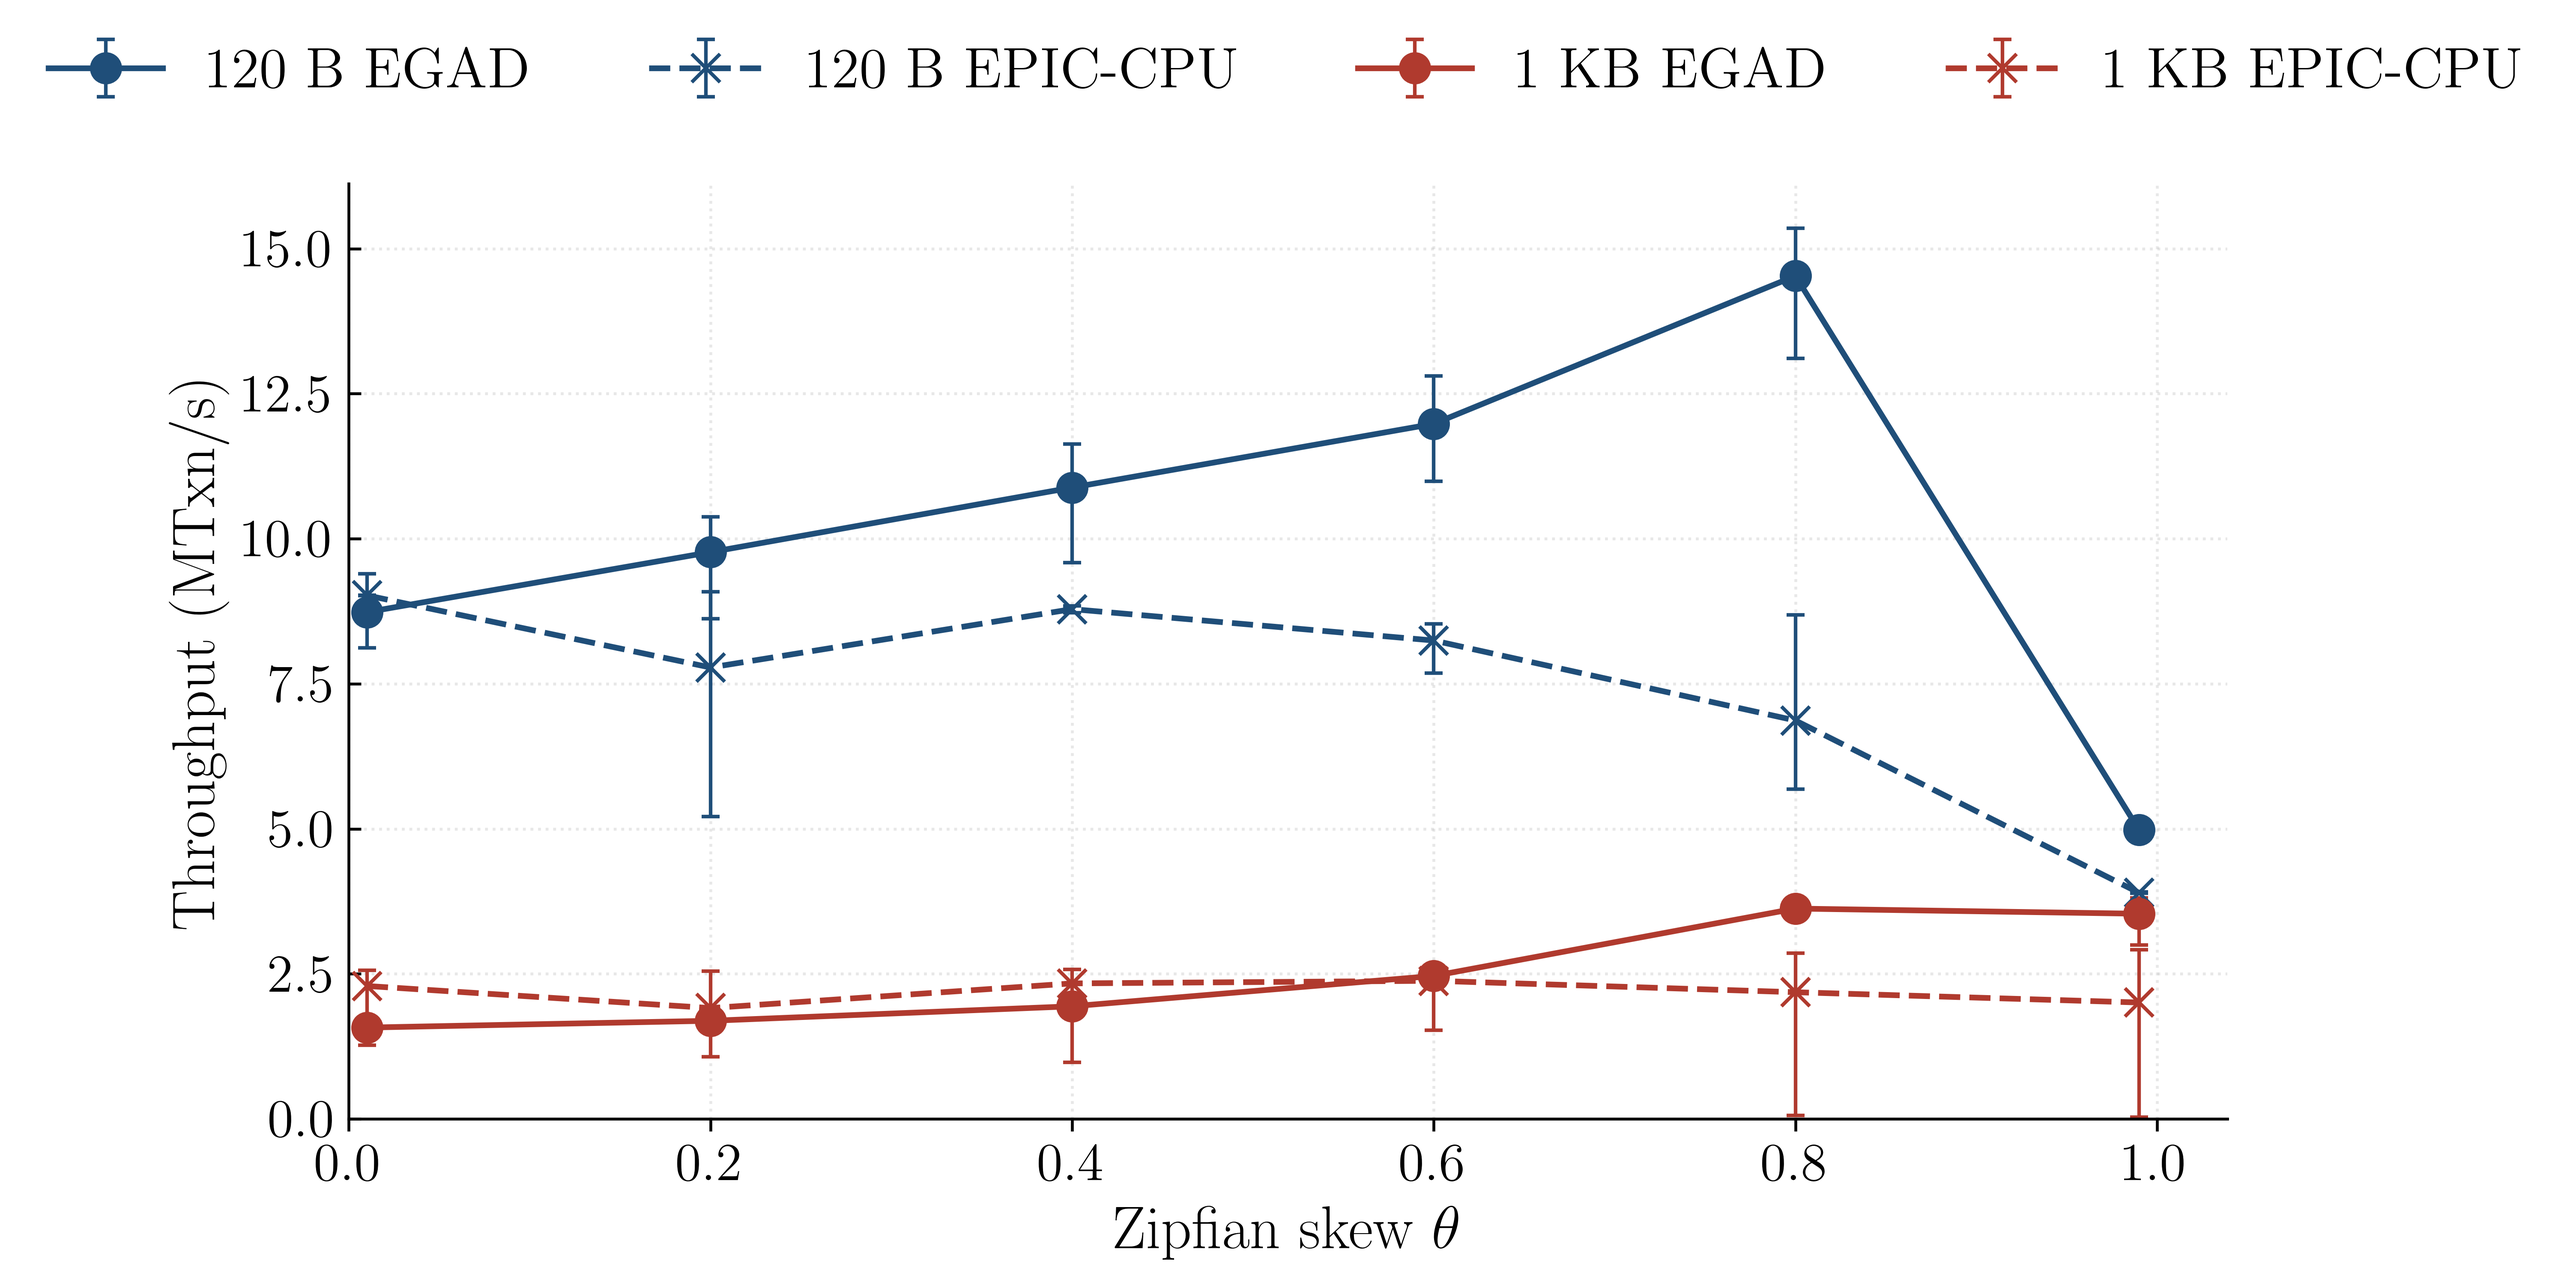
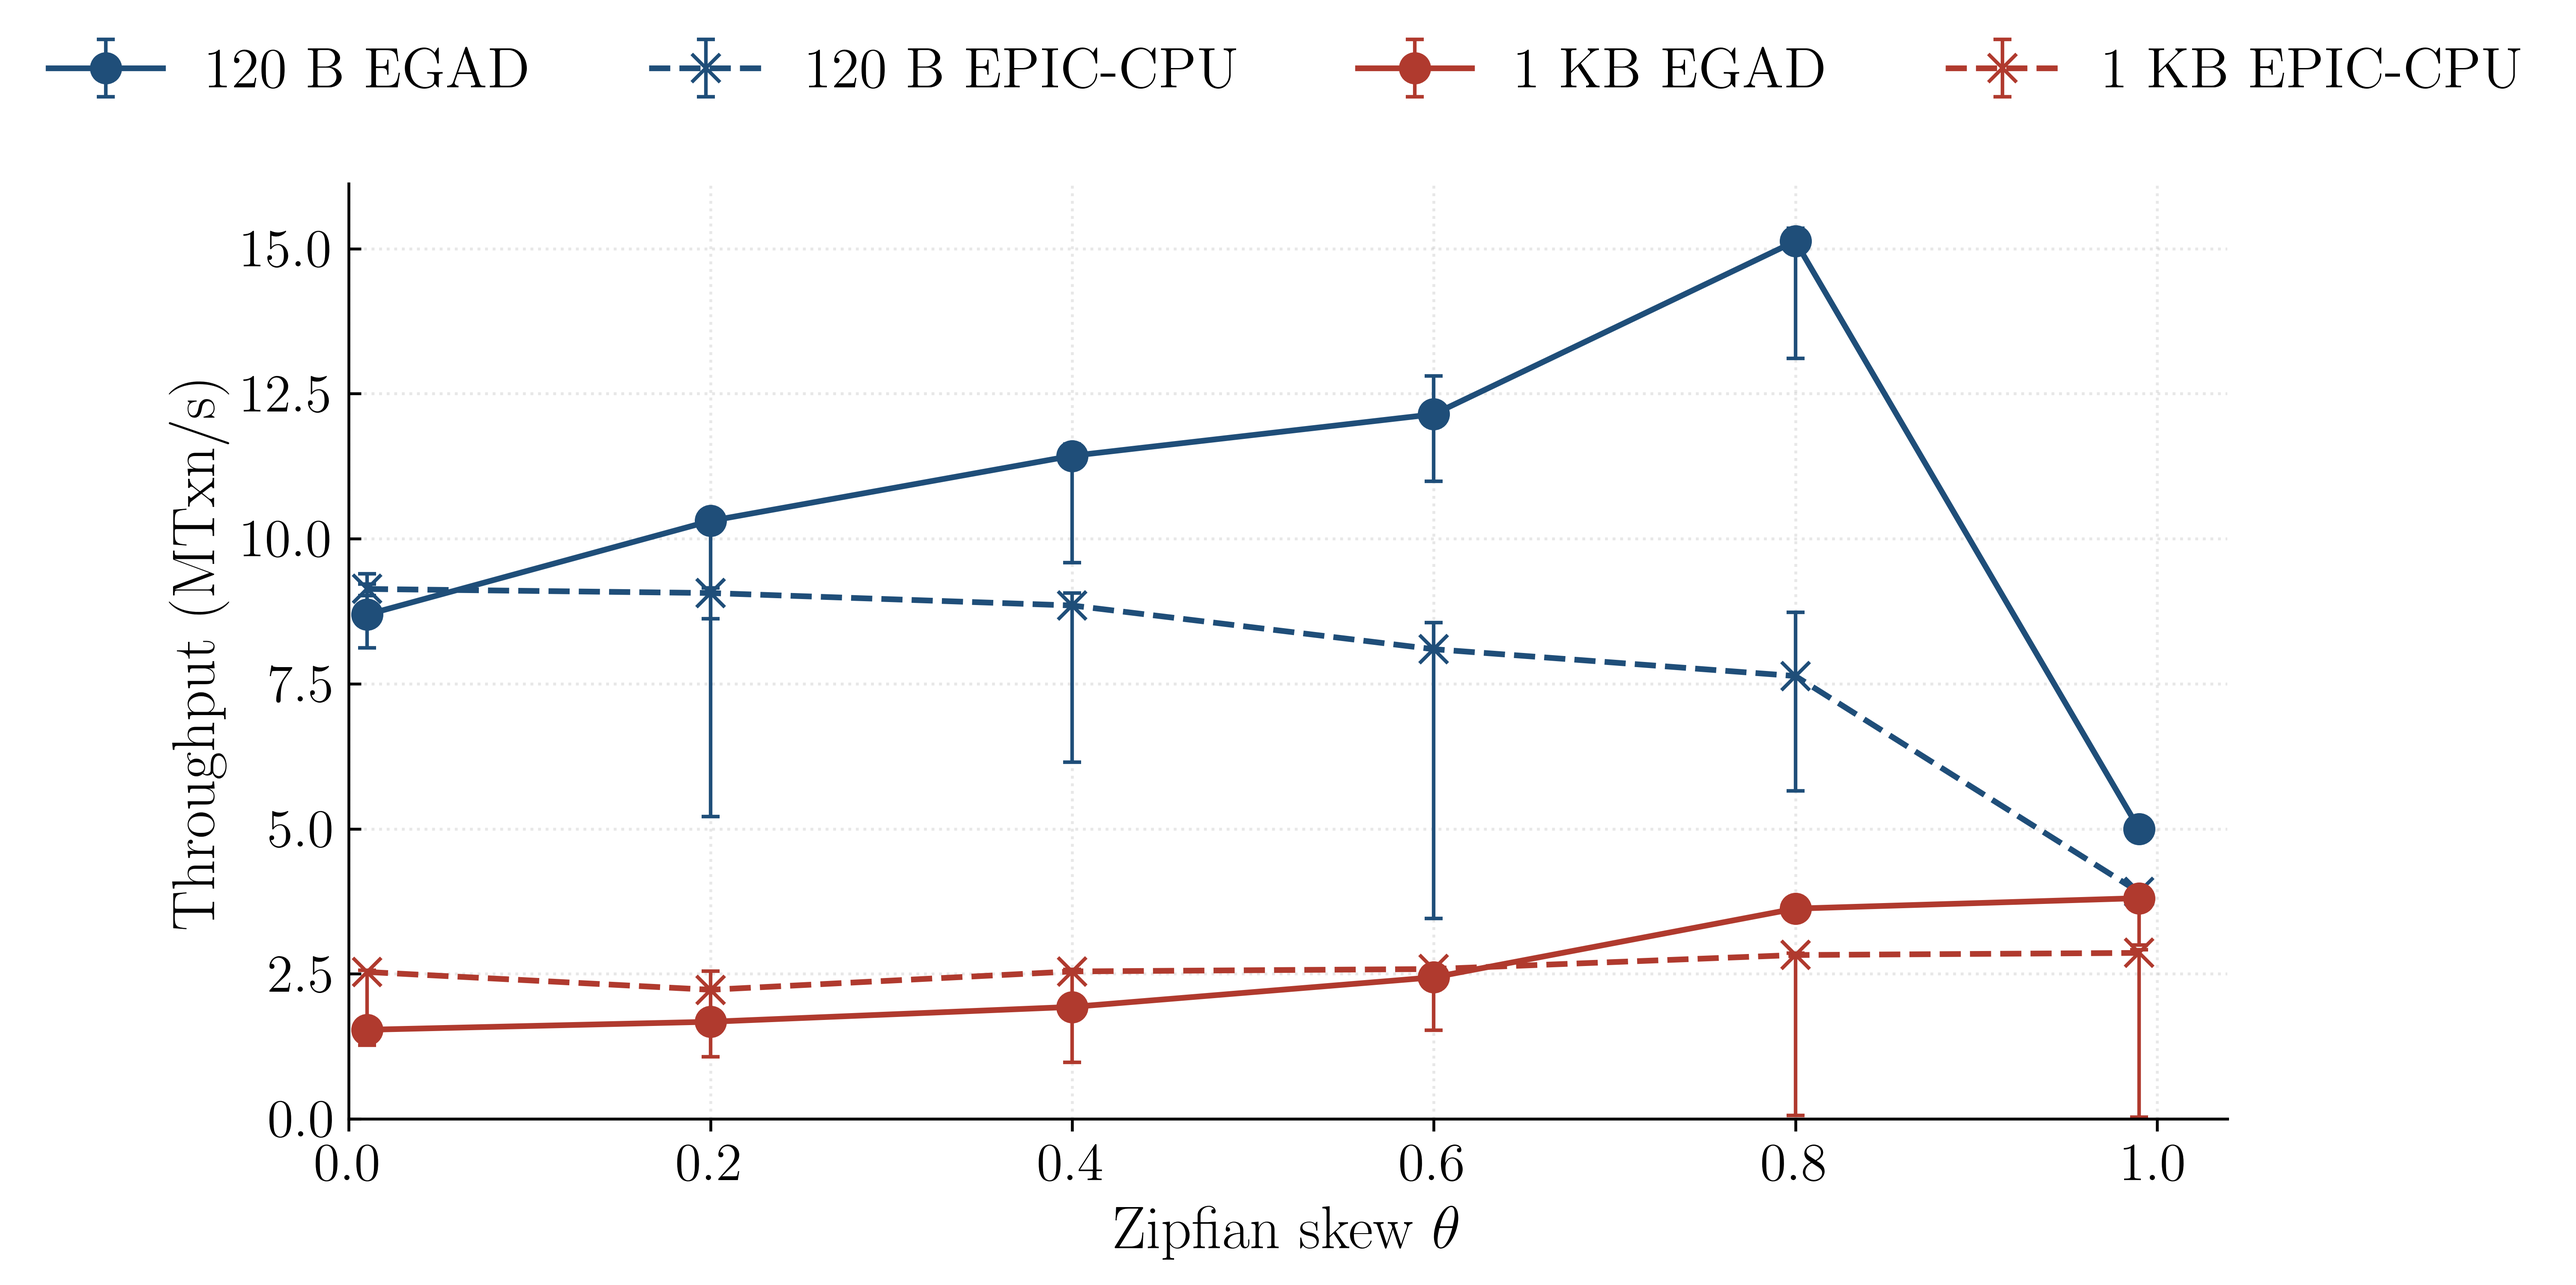
EGAD_plotting: record-size centers are ten-rep medians -- 120B cpu cells topped up on the quiet box; medians resist upstream's slow mode where the old three-rep means sat between modes

diff --git a/EGAD_plotting/plots/03_record_size.py b/EGAD_plotting/plots/03_record_size.py
@@ -134,11 +134,13 @@ def render(cells: Dict[Tuple[str, str, float], List[float]]) -> None:
     ]
 
     for size, mode, color, ls, marker, label in series_cfg:
-        pts = []  # (skew, mean, min, max) -- center stays the mean
+        # Median center: the EPIC-CPU cells carry mode structure across their
+        # ten reps (upstream's slow mode), and a mean would sit between modes.
+        pts = []  # (skew, median, min, max)
         for s in skews:
             vs = cells.get((size, mode, s), [])
             if vs:
-                pts.append((s, statistics.mean(vs), min(vs), max(vs)))
+                pts.append((s, statistics.median(vs), min(vs), max(vs)))
         if not pts:
             continue
         xs_plot = [p[0] for p in pts]
@@ -165,9 +167,9 @@ def render(cells: Dict[Tuple[str, str, float], List[float]]) -> None:
     csv_path = OUT_BASE + ".csv"
     with open(csv_path, "w", newline="") as f:
         w = csv.writer(f)
-        w.writerow(["size", "mode", "skew", "mean_mtxn_s", "min_mtxn_s", "max_mtxn_s", "n_reps"])
+        w.writerow(["size", "mode", "skew", "median_mtxn_s", "min_mtxn_s", "max_mtxn_s", "n_reps"])
         for (size, mode, skew), vs in sorted(cells.items()):
-            w.writerow([size, mode, skew, statistics.mean(vs),
+            w.writerow([size, mode, skew, statistics.median(vs),
                         round(min(vs), 3), round(max(vs), 3), len(vs)])
     print(f"saved {csv_path}")
 

diff --git a/EGAD_plotting/PLOTS.md b/EGAD_plotting/PLOTS.md
@@ -197,16 +197,17 @@ ycsbf, 120 B, -rF-fT, hybrid_staging async, e=300, e260 target.
 `figures/record_size.{pdf,png,csv}` from `plots/03_record_size.py`
 
 ### Headline claim
-"At matched cache pressure, 120 B records deliver 4.0 to 5.8 times higher
+"At matched cache pressure, 120 B records deliver 4.2 to 6.2 times higher
 hybrid throughput than 1 KB records below theta=0.99 (per-byte PCIe
-cost), and 1 KB hybrid sits below 1 KB cpu_only for theta<=0.4 (the
-staging bandwidth ceiling), crossing above at theta=0.6."
+cost), and 1 KB hybrid sits below 1 KB cpu_only for theta<=0.6 (the
+staging bandwidth ceiling), crossing above at theta=0.8."
 
 ### Experimental design
 - ycsbf, 120 B vs 1 KB, hybrid + cpu_only
 - cpu_only = unmodified upstream Epic (see CPU baseline provenance above);
-  1 KB cpu cells are medians of 10 reps (bimodal executor, see caveats),
-  120 B cpu cells are 3 reps like the hybrid cells
+  ALL cpu cells are medians of 10 reps as of 2026-08-12 (120 B cells
+  topped up from 3 on the quiet box; recurring slow mode, see caveats);
+  hybrid cells are 3-rep medians (tight)
 - 20 M records, 6 skews (0.01, 0.2, 0.4, 0.6, 0.8, 0.99)
 - 1 KB hybrid uses autosizer's natural ~10.54 M record cache (~52.7 %
   ratio)
@@ -219,18 +220,21 @@ staging bandwidth ceiling), crossing above at theta=0.6."
 - Solid blue (120 B hybrid) is the headline curve, above its baseline
   from theta=0.2 up.
 - Solid red (1 KB hybrid) sits BELOW dashed red (1 KB cpu_only) through
-  theta=0.4 - the "staging bandwidth ceiling" region - and pulls above
-  from theta=0.6.
+  theta=0.6 - the "staging bandwidth ceiling" region - and pulls above
+  from theta=0.8.
 
 ### Cite
-- 120 B: hybrid wins from theta=0.2 up (1.24x to 2.12x; peak 2.12x at
-  theta=0.8, 14.53 vs 6.87 MTxn/s). theta=0.01 is parity (0.97x, 8.73 vs
-  9.02). theta=0.99 is 1.28x (4.98 vs 3.90; both sides contention-bound).
-- 1 KB: hybrid below cpu_only at theta<=0.4 (0.69x at theta=0.01, 1.57 vs
-  2.29), 1.04x at theta=0.6, then 1.66x at theta=0.8 and 1.76x at
-  theta=0.99 (3.54 vs 2.01).
-- 120 B / 1 KB hybrid ratio: 4.0x to 5.8x below theta=0.99; 1.4x at
+- 120 B: hybrid wins from theta=0.2 up (1.14x to 1.98x; peak 1.98x at
+  theta=0.8, 15.13 vs 7.63 MTxn/s). theta=0.01 is just below (0.95x,
+  8.69 vs 9.13). theta=0.99 is 1.28x (5.00 vs 3.91; contention-bound).
+- 1 KB: hybrid below cpu_only at theta<=0.6 (0.61x at theta=0.01, 1.54 vs
+  2.53; 0.94x at theta=0.6), then 1.28x at theta=0.8 and 1.33x at
+  theta=0.99 (3.80 vs 2.86).
+- 120 B / 1 KB hybrid ratio: 4.2x to 6.2x below theta=0.99; 1.3x at
   theta=0.99 where GPU-executor contention bounds both record sizes.
+- (Medians of ten resist the cpu slow mode; the old 3-rep means sat
+  between modes, which is why several ratios moved with the 2026-08-12
+  top-up: peak 2.12x->1.98x, 1 KB high-skew 1.76x->1.33x.)
 
 ### Caveats
 - This is an apples-to-apples per-byte cost comparison, NOT a
